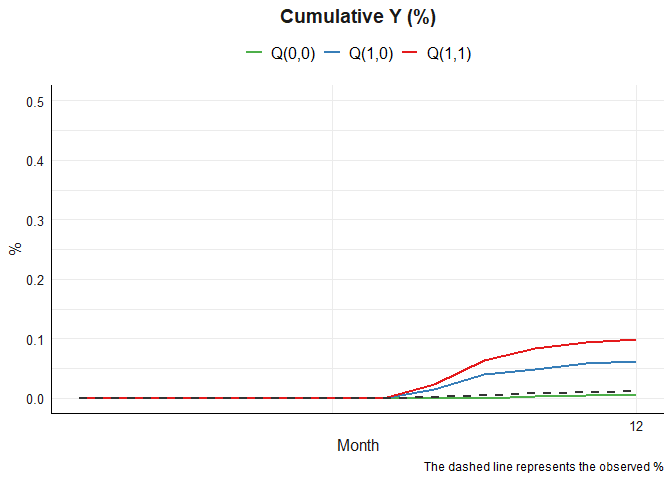
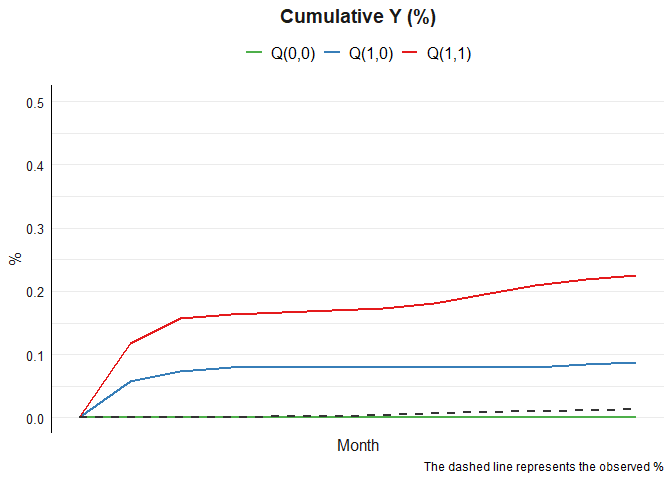
revise plot functions and readme

diff --git a/docs/index.html b/docs/index.html
@@ -64,21 +64,26 @@
 </div>
 <!-- badges: start -->
 
-<p>The goal of tvmedg is to time-varying mediation analysis using g-computation</p>
+<!-- badges: end -->
+<p>The <code>tvmedg</code> package implements <em>causal mediation analysis</em> using g-computation in longitudinal settings with time-varying exposures, mediators, confounders, and outcomes. It extends the g-computation framework to decompose total effects into the <em>randomized interventional analogues</em> of <em>natural direct</em> and <em>indirect effects</em>, in the presence of time-varying confounding affected by prior exposures or mediators. This approach builds upon the <em>‘mediational g-formula’</em> introduced by <a href="https://academic.oup.com/jrsssb/article/79/3/917/7040673" class="external-link">VanderWeele and Tchetgen Tchetgen (2017)</a>.</p>
+<p>The current version of <code>tvmedg</code> supports multiple mediators, both binary and continuous exposures, and spline-based functional forms for continuous variables. The package also enables parallel computing for efficiency in large-scale analyses. Besides the core modeling functions, <code>tvmedg</code> includes functions for visualizing and diagnosing model results.</p>
 <div class="section level2">
 <h2 id="installation">Installation<a class="anchor" aria-label="anchor" href="#installation"></a>
 </h2>
-<p>You can install the development version of tvmedg like so:</p>
+<p>The development version of <code>tvmedg</code> can be installed from GitHub:</p>
 <div class="sourceCode" id="cb1"><pre class="downlit sourceCode r">
 <code class="sourceCode R"><span><span class="co"># install.packages("devtools")</span></span>
 <span><span class="fu">devtools</span><span class="fu">::</span><span class="fu"><a href="https://remotes.r-lib.org/reference/install_github.html" class="external-link">install_github</a></span><span class="op">(</span><span class="st">"causalepi/tvmedg"</span><span class="op">)</span></span></code></pre></div>
 </div>
 <div class="section level2">
-<h2 id="demo">Demo<a class="anchor" aria-label="anchor" href="#demo"></a>
+<h2 id="quick-start">Quick Start<a class="anchor" aria-label="anchor" href="#quick-start"></a>
 </h2>
 <div class="sourceCode" id="cb2"><pre class="downlit sourceCode r">
 <code class="sourceCode R"><span><span class="kw"><a href="https://rdrr.io/r/base/library.html" class="external-link">library</a></span><span class="op">(</span><span class="va"><a href="https://causalepi.github.io/tvmedg/">tvmedg</a></span><span class="op">)</span></span>
-<span><span class="kw"><a href="https://rdrr.io/r/base/library.html" class="external-link">library</a></span><span class="op">(</span><span class="va"><a href="https://ggplot2.tidyverse.org" class="external-link">ggplot2</a></span><span class="op">)</span></span></code></pre></div>
+<span><span class="kw"><a href="https://rdrr.io/r/base/library.html" class="external-link">library</a></span><span class="op">(</span><span class="va"><a href="https://github.com/RevolutionAnalytics/doparallel" class="external-link">doParallel</a></span><span class="op">)</span></span>
+<span><span class="co">#&gt; Loading required package: foreach</span></span>
+<span><span class="co">#&gt; Loading required package: iterators</span></span>
+<span><span class="co">#&gt; Loading required package: parallel</span></span></code></pre></div>
 <div class="section level3">
 <h3 id="simulation-data">Simulation data<a class="anchor" aria-label="anchor" href="#simulation-data"></a>
 </h3>
@@ -96,12 +101,7 @@
 <h3 id="run-model">Run model<a class="anchor" aria-label="anchor" href="#run-model"></a>
 </h3>
 <div class="sourceCode" id="cb4"><pre class="downlit sourceCode r">
-<code class="sourceCode R"><span><span class="kw"><a href="https://rdrr.io/r/base/library.html" class="external-link">library</a></span><span class="op">(</span><span class="va"><a href="https://github.com/RevolutionAnalytics/doparallel" class="external-link">doParallel</a></span><span class="op">)</span></span>
-<span><span class="co">#&gt; Loading required package: foreach</span></span>
-<span><span class="co">#&gt; Loading required package: iterators</span></span>
-<span><span class="co">#&gt; Loading required package: parallel</span></span>
-<span></span>
-<span><span class="va">cl</span> <span class="op">&lt;-</span> <span class="fu"><a href="https://rdrr.io/r/parallel/makeCluster.html" class="external-link">makeCluster</a></span><span class="op">(</span><span class="fl">8</span><span class="op">)</span></span>
+<code class="sourceCode R"><span><span class="va">cl</span> <span class="op">&lt;-</span> <span class="fu"><a href="https://rdrr.io/r/parallel/makeCluster.html" class="external-link">makeCluster</a></span><span class="op">(</span><span class="fl">8</span><span class="op">)</span></span>
 <span><span class="fu"><a href="https://rdrr.io/pkg/doParallel/man/registerDoParallel.html" class="external-link">registerDoParallel</a></span><span class="op">(</span><span class="va">cl</span><span class="op">)</span></span>
 <span></span>
 <span><span class="va">op</span> <span class="op">&lt;-</span> <span class="fu"><a href="reference/tvmedg.html">tvmedg</a></span><span class="op">(</span>data <span class="op">=</span> <span class="va">sim_data</span>,</span>
@@ -114,55 +114,27 @@
 <span>       lag <span class="op">=</span> <span class="fl">2</span>,</span>
 <span>       norev <span class="op">=</span> <span class="fu"><a href="https://rdrr.io/r/base/c.html" class="external-link">c</a></span><span class="op">(</span><span class="st">"Mp"</span><span class="op">)</span>,</span>
 <span>       cont_exp <span class="op">=</span> <span class="cn">F</span>,</span>
-<span>       cont_exp_std <span class="op">=</span> <span class="cn">F</span>,</span>
-<span>       tvar_to_med <span class="op">=</span> <span class="cn">F</span>,</span>
 <span>       mreg <span class="op">=</span> <span class="st">"binomial"</span>,</span>
 <span>       lreg <span class="op">=</span> <span class="fu"><a href="https://rdrr.io/r/base/c.html" class="external-link">c</a></span><span class="op">(</span><span class="st">"binomial"</span>,<span class="st">"gaussian"</span>,<span class="st">"gaussian"</span><span class="op">)</span>,</span>
 <span>       yreg <span class="op">=</span> <span class="st">"binomial"</span>,</span>
 <span>       sp_list <span class="op">=</span> <span class="fu"><a href="https://rdrr.io/r/base/c.html" class="external-link">c</a></span><span class="op">(</span><span class="st">"mm"</span><span class="op">)</span>,</span>
 <span>       sp_type <span class="op">=</span> <span class="fu"><a href="https://rdrr.io/r/base/c.html" class="external-link">c</a></span><span class="op">(</span><span class="st">"bs"</span><span class="op">)</span>,</span>
-<span>       sp_df<span class="op">=</span> <span class="fu"><a href="https://rdrr.io/r/base/c.html" class="external-link">c</a></span><span class="op">(</span><span class="fl">3</span><span class="op">)</span>,</span>
+<span>       sp_df <span class="op">=</span> <span class="fu"><a href="https://rdrr.io/r/base/c.html" class="external-link">c</a></span><span class="op">(</span><span class="fl">3</span><span class="op">)</span>,</span>
 <span>       followup <span class="op">=</span> <span class="fl">12</span>,</span>
 <span>       seed <span class="op">=</span> <span class="fl">123</span>,</span>
 <span>       montecarlo <span class="op">=</span> <span class="fl">1000</span>,</span>
-<span>       boot <span class="op">=</span> <span class="cn">T</span>, </span>
-<span>       nboot <span class="op">=</span> <span class="fl">5</span>,</span>
-<span>       ci <span class="op">=</span> <span class="fl">.95</span>,</span>
-<span>       parallel<span class="op">=</span><span class="cn">TRUE</span><span class="op">)</span></span>
-<span><span class="co">#&gt; Q(a,a): 0.095 (0.083,0.32) </span></span>
-<span><span class="co">#&gt; Q(a,a*): 0.06 (0.005,0.183) </span></span>
-<span><span class="co">#&gt; Q(a*,a*): 0.004 (0,0.109) </span></span>
-<span><span class="co">#&gt; Indirect: 0.035 (-0.013,0.278) </span></span>
-<span><span class="co">#&gt; Direct: 0.056 (-0.007,0.172) </span></span>
-<span><span class="co">#&gt; Total: 0.091 (-0.012,0.32) </span></span>
-<span><span class="co">#&gt; Proportional explain: 0.385 (0.023,0.987) </span></span>
-<span><span class="co">#&gt; Total time elapsed: 17.54758 mins</span></span>
+<span>       boot <span class="op">=</span> <span class="cn">F</span>,</span>
+<span>       parallel <span class="op">=</span> <span class="cn">TRUE</span><span class="op">)</span></span>
+<span><span class="co">#&gt; Q(a,a): 0.2 </span></span>
+<span><span class="co">#&gt; Q(a,a*): 0.088 </span></span>
+<span><span class="co">#&gt; Q(a*,a*): 0 </span></span>
+<span><span class="co">#&gt; Indirect: 0.112 </span></span>
+<span><span class="co">#&gt; Direct: 0.088 </span></span>
+<span><span class="co">#&gt; Total: 0.2 </span></span>
+<span><span class="co">#&gt; Proportional explain: 0.56 </span></span>
+<span><span class="co">#&gt; Total time elapsed: 5.13926 mins</span></span>
 <span></span>
 <span><span class="fu"><a href="https://rdrr.io/r/parallel/makeCluster.html" class="external-link">stopCluster</a></span><span class="op">(</span><span class="va">cl</span><span class="op">)</span></span></code></pre></div>
-</div>
-<div class="section level3">
-<h3 id="plot">Plot<a class="anchor" aria-label="anchor" href="#plot"></a>
-</h3>
-<div class="sourceCode" id="cb5"><pre class="downlit sourceCode r">
-<code class="sourceCode R"><span><span class="fu"><a href="https://rdrr.io/r/graphics/plot.default.html" class="external-link">plot</a></span><span class="op">(</span><span class="va">op</span>,<span class="st">"cumY"</span><span class="op">)</span><span class="op">+</span></span>
-<span>  <span class="fu"><a href="https://ggplot2.tidyverse.org/reference/scale_continuous.html" class="external-link">scale_y_continuous</a></span><span class="op">(</span>limits <span class="op">=</span> <span class="fu"><a href="https://rdrr.io/r/base/c.html" class="external-link">c</a></span><span class="op">(</span><span class="fl">0</span>, <span class="fl">0.5</span><span class="op">)</span><span class="op">)</span> <span class="op">+</span></span>
-<span>  <span class="fu"><a href="https://ggplot2.tidyverse.org/reference/scale_continuous.html" class="external-link">scale_x_continuous</a></span><span class="op">(</span>breaks <span class="op">=</span> <span class="fu"><a href="https://rdrr.io/r/base/seq.html" class="external-link">seq</a></span><span class="op">(</span><span class="fl">0</span>, <span class="fl">12</span>, by <span class="op">=</span> <span class="fl">12</span><span class="op">)</span><span class="op">)</span><span class="op">+</span></span>
-<span>  <span class="fu"><a href="https://ggplot2.tidyverse.org/reference/labs.html" class="external-link">labs</a></span><span class="op">(</span>x <span class="op">=</span> <span class="st">"Month"</span>,</span>
-<span>       y <span class="op">=</span> <span class="st">"%"</span>,</span>
-<span>       caption <span class="op">=</span> <span class="st">"The dashed line represents the observed %"</span>,</span>
-<span>       color <span class="op">=</span> <span class="cn">NULL</span><span class="op">)</span><span class="op">+</span></span>
-<span>  <span class="fu"><a href="reference/mytheme.html">mytheme</a></span><span class="op">(</span><span class="op">)</span></span></code></pre></div>
-<p><img src="reference/figures/README-unnamed-chunk-5-1.png" width="100%"></p>
-<div class="sourceCode" id="cb6"><pre class="downlit sourceCode r">
-<code class="sourceCode R"><span><span class="fu"><a href="https://rdrr.io/r/graphics/plot.default.html" class="external-link">plot</a></span><span class="op">(</span><span class="va">op</span>,<span class="st">"tvY"</span><span class="op">)</span><span class="op">+</span></span>
-<span>  <span class="fu"><a href="https://ggplot2.tidyverse.org/reference/scale_continuous.html" class="external-link">scale_y_continuous</a></span><span class="op">(</span>limits <span class="op">=</span> <span class="fu"><a href="https://rdrr.io/r/base/c.html" class="external-link">c</a></span><span class="op">(</span><span class="fl">0</span>, <span class="fl">0.5</span><span class="op">)</span><span class="op">)</span> <span class="op">+</span></span>
-<span>  <span class="fu"><a href="https://ggplot2.tidyverse.org/reference/scale_continuous.html" class="external-link">scale_x_continuous</a></span><span class="op">(</span>breaks <span class="op">=</span> <span class="fu"><a href="https://rdrr.io/r/base/seq.html" class="external-link">seq</a></span><span class="op">(</span><span class="fl">0</span>, <span class="fl">12</span>, by <span class="op">=</span> <span class="fl">12</span><span class="op">)</span><span class="op">)</span> <span class="op">+</span></span>
-<span>  <span class="fu"><a href="https://ggplot2.tidyverse.org/reference/labs.html" class="external-link">labs</a></span><span class="op">(</span>x <span class="op">=</span> <span class="st">"Month"</span>,</span>
-<span>       y <span class="op">=</span> <span class="st">"%"</span>,</span>
-<span>       caption <span class="op">=</span> <span class="st">"The dashed line represents the observed %"</span>,</span>
-<span>       color <span class="op">=</span> <span class="cn">NULL</span><span class="op">)</span><span class="op">+</span></span>
-<span>  <span class="fu"><a href="reference/mytheme.html">mytheme</a></span><span class="op">(</span><span class="op">)</span></span></code></pre></div>
-<p><img src="reference/figures/README-unnamed-chunk-6-1.png" width="100%"></p>
 </div>
 </div>
 </div>
@@ -196,7 +168,7 @@
 <li>Quynh Long Khuong <br><small class="roles"> Author, copyright holder </small> <a href="https://orcid.org/0000-0002-1232-6230" target="orcid.widget" aria-label="ORCID" class="external-link"><span class="fab fa-orcid orcid" aria-hidden="true"></span></a>  </li>
 <li>Nguyen Pham Nguyen The <br><small class="roles"> Author, maintainer </small> <a href="https://orcid.org/0000-0002-0356-2776" target="orcid.widget" aria-label="ORCID" class="external-link"><span class="fab fa-orcid orcid" aria-hidden="true"></span></a>  </li>
 <li>Thinh Ong <br><small class="roles"> Author </small> <a href="https://orcid.org/0000-0001-6772-9291" target="orcid.widget" aria-label="ORCID" class="external-link"><span class="fab fa-orcid orcid" aria-hidden="true"></span></a>  </li>
-<li>Kelly D. Getz <br><small class="roles"> Author, thesis advisor </small> <a href="https://orcid.org/0000-0003-2020-5153" target="orcid.widget" aria-label="ORCID" class="external-link"><span class="fab fa-orcid orcid" aria-hidden="true"></span></a>  </li>
+<li>Kelly D. Getz <br><small class="roles"> Author </small> <a href="https://orcid.org/0000-0003-2020-5153" target="orcid.widget" aria-label="ORCID" class="external-link"><span class="fab fa-orcid orcid" aria-hidden="true"></span></a>  </li>
 </ul>
 </div>
 
@@ -217,7 +189,7 @@
 </div>
 
 <div class="pkgdown-footer-right">
-  <p>Site built with <a href="https://pkgdown.r-lib.org/" class="external-link">pkgdown</a> 2.1.2.</p>
+  <p>Site built with <a href="https://pkgdown.r-lib.org/" class="external-link">pkgdown</a> 2.1.3.</p>
 </div>
 
     </footer>

diff --git a/docs/authors.html b/docs/authors.html
@@ -49,7 +49,7 @@
           </p>
         </li>
         <li>
-          <p><strong>Kelly D. Getz</strong>. Author, thesis advisor. <a href="https://orcid.org/0000-0003-2020-5153" target="orcid.widget" aria-label="ORCID" class="external-link"><span class="fab fa-orcid orcid" aria-hidden="true"></span></a>
+          <p><strong>Kelly D. Getz</strong>. Author. <a href="https://orcid.org/0000-0003-2020-5153" target="orcid.widget" aria-label="ORCID" class="external-link"><span class="fab fa-orcid orcid" aria-hidden="true"></span></a>
           </p>
         </li>
       </ul></div>
@@ -80,7 +80,7 @@ R package version 0.1.0, <a href="https://causalepi.github.io/tvmedg/">https://c
 </div>
 
 <div class="pkgdown-footer-right">
-  <p>Site built with <a href="https://pkgdown.r-lib.org/" class="external-link">pkgdown</a> 2.1.2.</p>
+  <p>Site built with <a href="https://pkgdown.r-lib.org/" class="external-link">pkgdown</a> 2.1.3.</p>
 </div>
 
     </footer></div>

diff --git a/docs/404.html b/docs/404.html
@@ -71,7 +71,7 @@ Content not found. Please use links in the navbar.
 </div>
 
 <div class="pkgdown-footer-right">
-  <p>Site built with <a href="https://pkgdown.r-lib.org/" class="external-link">pkgdown</a> 2.1.2.</p>
+  <p>Site built with <a href="https://pkgdown.r-lib.org/" class="external-link">pkgdown</a> 2.1.3.</p>
 </div>
 
     </footer>

diff --git a/docs/LICENSE-text.html b/docs/LICENSE-text.html
@@ -46,7 +46,7 @@ COPYRIGHT HOLDER: tvmedg authors
 </div>
 
 <div class="pkgdown-footer-right">
-  <p>Site built with <a href="https://pkgdown.r-lib.org/" class="external-link">pkgdown</a> 2.1.2.</p>
+  <p>Site built with <a href="https://pkgdown.r-lib.org/" class="external-link">pkgdown</a> 2.1.3.</p>
 </div>
 
     </footer></div>

diff --git a/docs/reference/index.html b/docs/reference/index.html
@@ -125,7 +125,7 @@
 </div>
 
 <div class="pkgdown-footer-right">
-  <p>Site built with <a href="https://pkgdown.r-lib.org/" class="external-link">pkgdown</a> 2.1.2.</p>
+  <p>Site built with <a href="https://pkgdown.r-lib.org/" class="external-link">pkgdown</a> 2.1.3.</p>
 </div>
 
     </footer></div>

diff --git a/docs/LICENSE.html b/docs/LICENSE.html
@@ -50,7 +50,7 @@
 </div>
 
 <div class="pkgdown-footer-right">
-  <p>Site built with <a href="https://pkgdown.r-lib.org/" class="external-link">pkgdown</a> 2.1.2.</p>
+  <p>Site built with <a href="https://pkgdown.r-lib.org/" class="external-link">pkgdown</a> 2.1.3.</p>
 </div>
 
     </footer></div>

diff --git a/README.md b/README.md
@@ -1,32 +1,50 @@
 
 <!-- README.md is generated from README.Rmd. Please edit that file -->
 
-# tvmedg <img src='man/figures/logo.png' align="right" height="139" />
+# tvmedg <img src="man/figures/logo.png" align="right" height="139"/>
 
 <!-- badges: start -->
 
 [![R-CMD-check](https://github.com/causalepi/tvmedg/actions/workflows/R-CMD-check.yaml/badge.svg)](https://github.com/causalepi/tvmedg/actions/workflows/R-CMD-check.yaml)
 [![Codecov test
 coverage](https://codecov.io/gh/causalepi/tvmedg/graph/badge.svg)](https://app.codecov.io/gh/causalepi/tvmedg)
+
 <!-- badges: end -->
 
-The goal of tvmedg is to time-varying mediation analysis using
-g-computation
+The `tvmedg` package implements *causal mediation analysis* using
+g-computation in longitudinal settings with time-varying exposures,
+mediators, confounders, and outcomes. It extends the g-computation
+framework to decompose total effects into the *randomized interventional
+analogues* of *natural direct* and *indirect effects*, in the presence
+of time-varying confounding affected by prior exposures or mediators.
+This approach builds upon the *‘mediational g-formula’* introduced by
+[VanderWeele and Tchetgen Tchetgen
+(2017)](https://academic.oup.com/jrsssb/article/79/3/917/7040673).
+
+The current version of `tvmedg` supports multiple mediators, both binary
+and continuous exposures, and spline-based functional forms for
+continuous variables. The package also enables parallel computing for
+efficiency in large-scale analyses. Besides the core modeling functions,
+`tvmedg` includes functions for visualizing and diagnosing model
+results.
 
 ## Installation
 
-You can install the development version of tvmedg like so:
+The development version of `tvmedg` can be installed from GitHub:
 
 ``` r
 # install.packages("devtools")
 devtools::install_github("causalepi/tvmedg")
 ```
 
-## Demo
+## Quick Start
 
 ``` r
 library(tvmedg)
-library(ggplot2)
+library(doParallel)
+#> Loading required package: foreach
+#> Loading required package: iterators
+#> Loading required package: parallel
 ```
 
 ### Simulation data
@@ -45,11 +63,6 @@ head(sim_data)
 ### Run model
 
 ``` r
-library(doParallel)
-#> Loading required package: foreach
-#> Loading required package: iterators
-#> Loading required package: parallel
-
 cl <- makeCluster(8)
 registerDoParallel(cl)
 
@@ -63,57 +76,25 @@ op <- tvmedg(data = sim_data,
        lag = 2,
        norev = c("Mp"),
        cont_exp = F,
-       cont_exp_std = F,
-       tvar_to_med = F,
        mreg = "binomial",
        lreg = c("binomial","gaussian","gaussian"),
        yreg = "binomial",
        sp_list = c("mm"),
        sp_type = c("bs"),
-       sp_df= c(3),
+       sp_df = c(3),
        followup = 12,
        seed = 123,
        montecarlo = 1000,
-       boot = T, 
-       nboot = 5,
-       ci = .95,
-       parallel=TRUE)
-#> Q(a,a): 0.095 (0.083,0.32) 
-#> Q(a,a*): 0.06 (0.005,0.183) 
-#> Q(a*,a*): 0.004 (0,0.109) 
-#> Indirect: 0.035 (-0.013,0.278) 
-#> Direct: 0.056 (-0.007,0.172) 
-#> Total: 0.091 (-0.012,0.32) 
-#> Proportional explain: 0.385 (0.023,0.987) 
-#> Total time elapsed: 17.54758 mins
+       boot = F,
+       parallel = TRUE)
+#> Q(a,a): 0.2 
+#> Q(a,a*): 0.088 
+#> Q(a*,a*): 0 
+#> Indirect: 0.112 
+#> Direct: 0.088 
+#> Total: 0.2 
+#> Proportional explain: 0.56 
+#> Total time elapsed: 5.13926 mins
 
 stopCluster(cl)
 ```
-
-### Plot
-
-``` r
-plot(op,"cumY")+
-  scale_y_continuous(limits = c(0, 0.5)) +
-  scale_x_continuous(breaks = seq(0, 12, by = 12))+
-  labs(x = "Month",
-       y = "%",
-       caption = "The dashed line represents the observed %",
-       color = NULL)+
-  mytheme()
-```
-
-<img src="man/figures/README-unnamed-chunk-5-1.png" width="100%" />
-
-``` r
-plot(op,"tvY")+
-  scale_y_continuous(limits = c(0, 0.5)) +
-  scale_x_continuous(breaks = seq(0, 12, by = 12)) +
-  labs(x = "Month",
-       y = "%",
-       caption = "The dashed line represents the observed %",
-       color = NULL)+
-  mytheme()
-```
-
-<img src="man/figures/README-unnamed-chunk-6-1.png" width="100%" />
